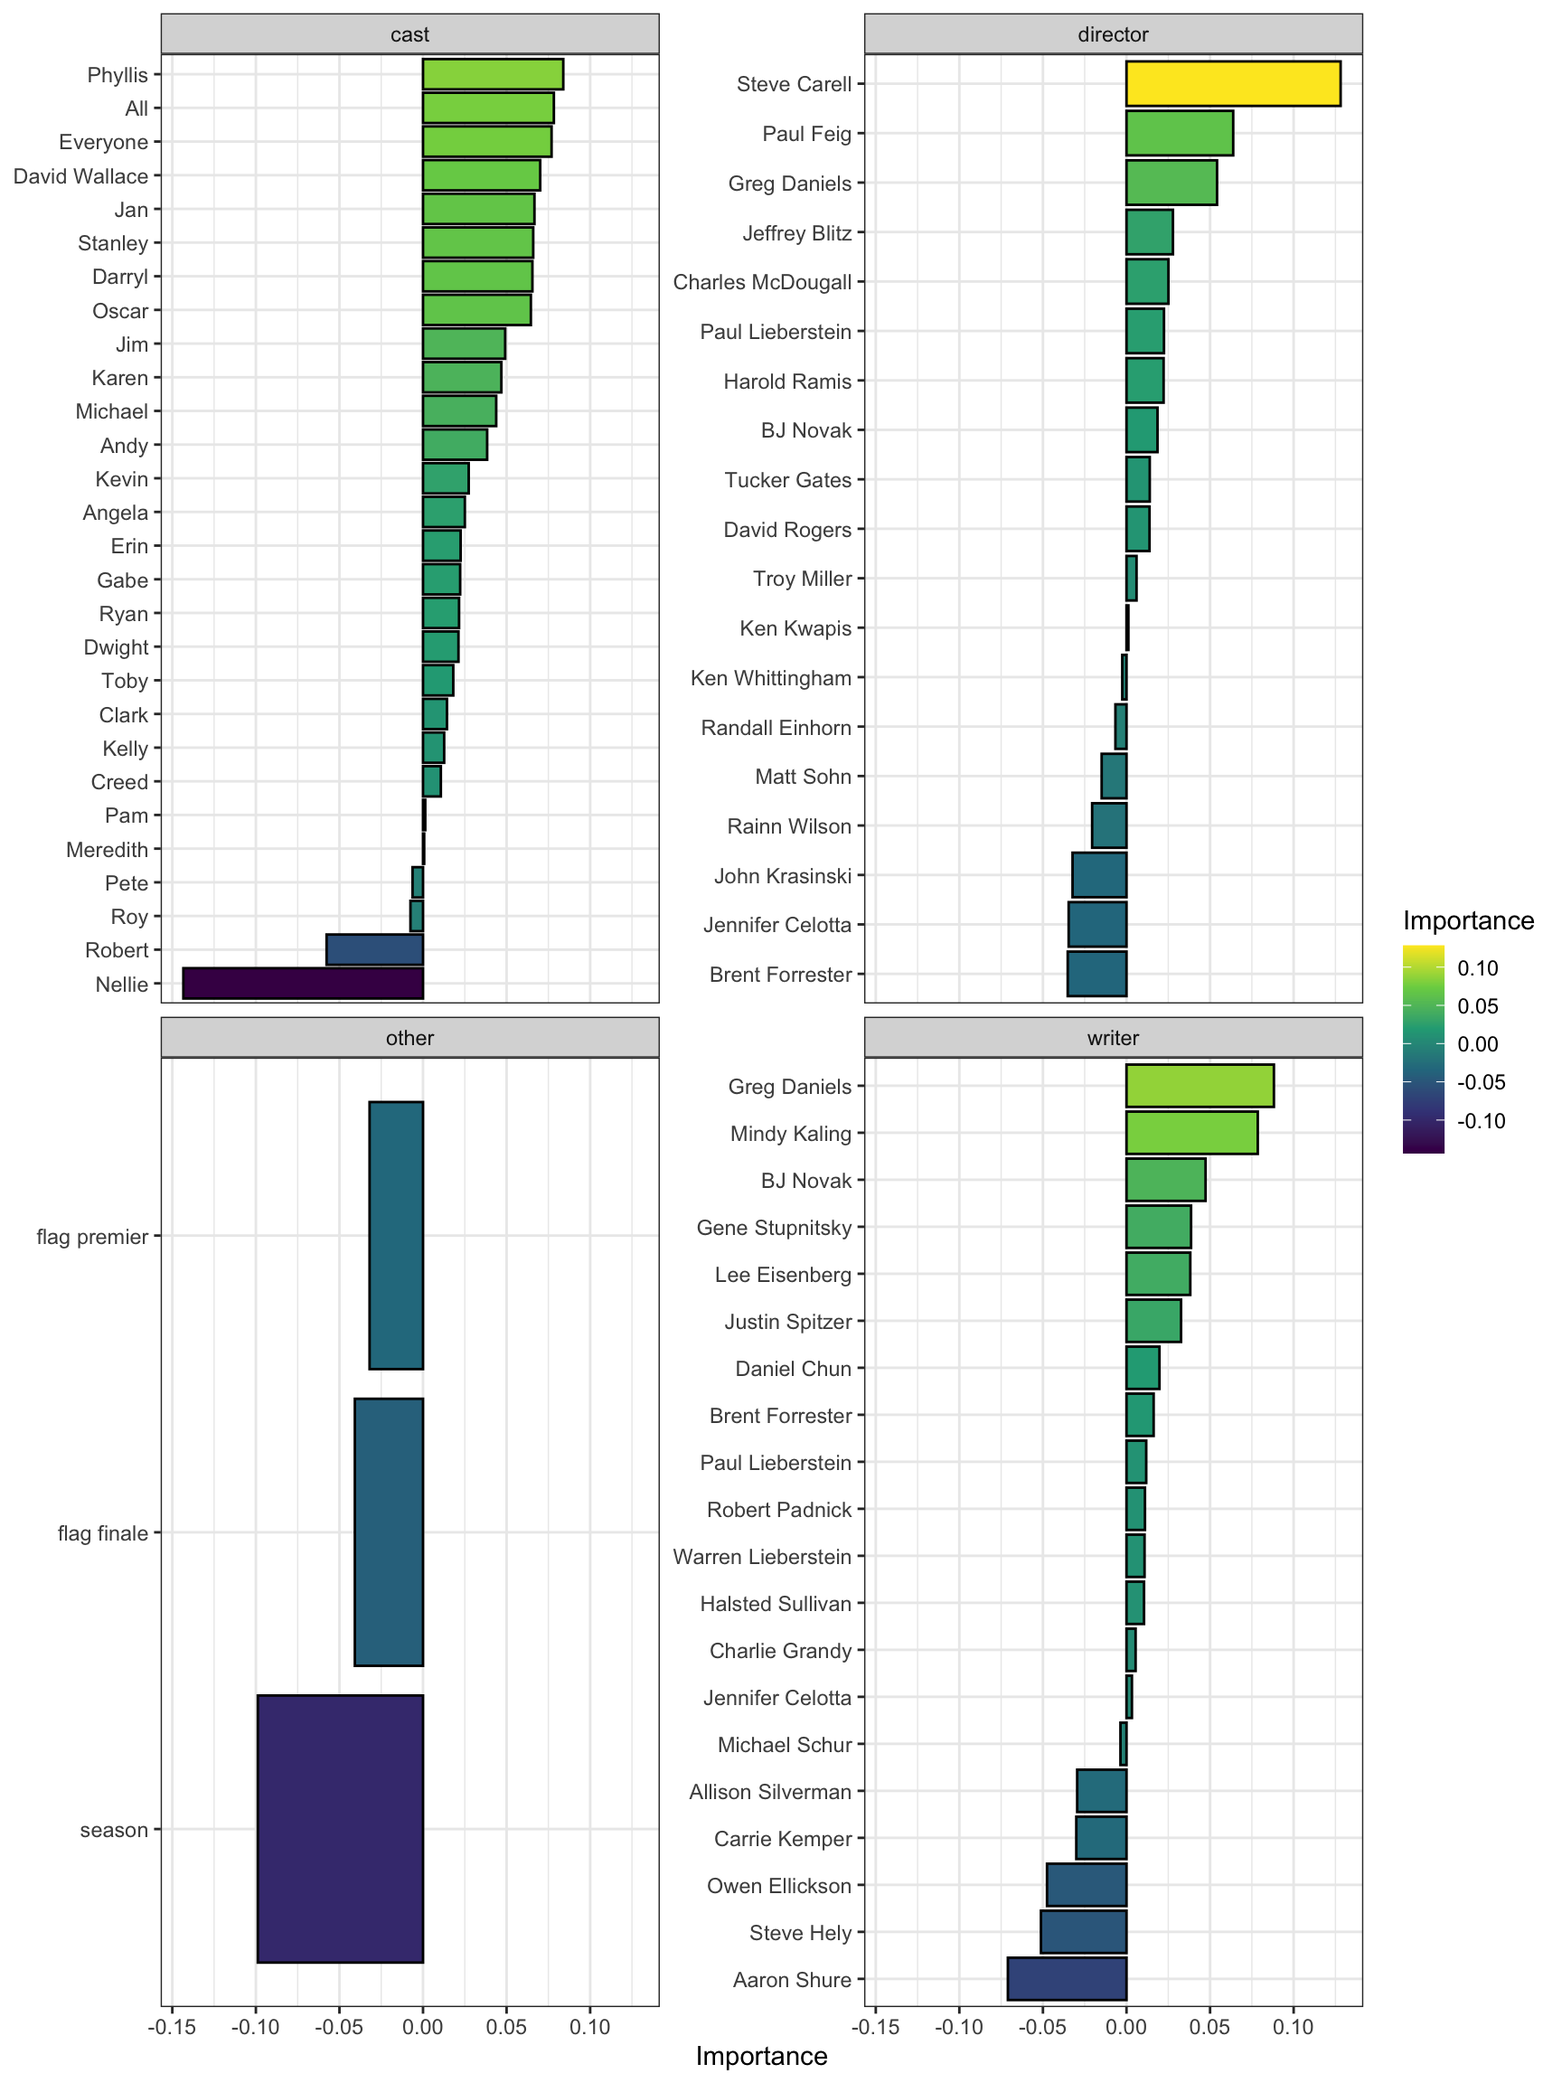
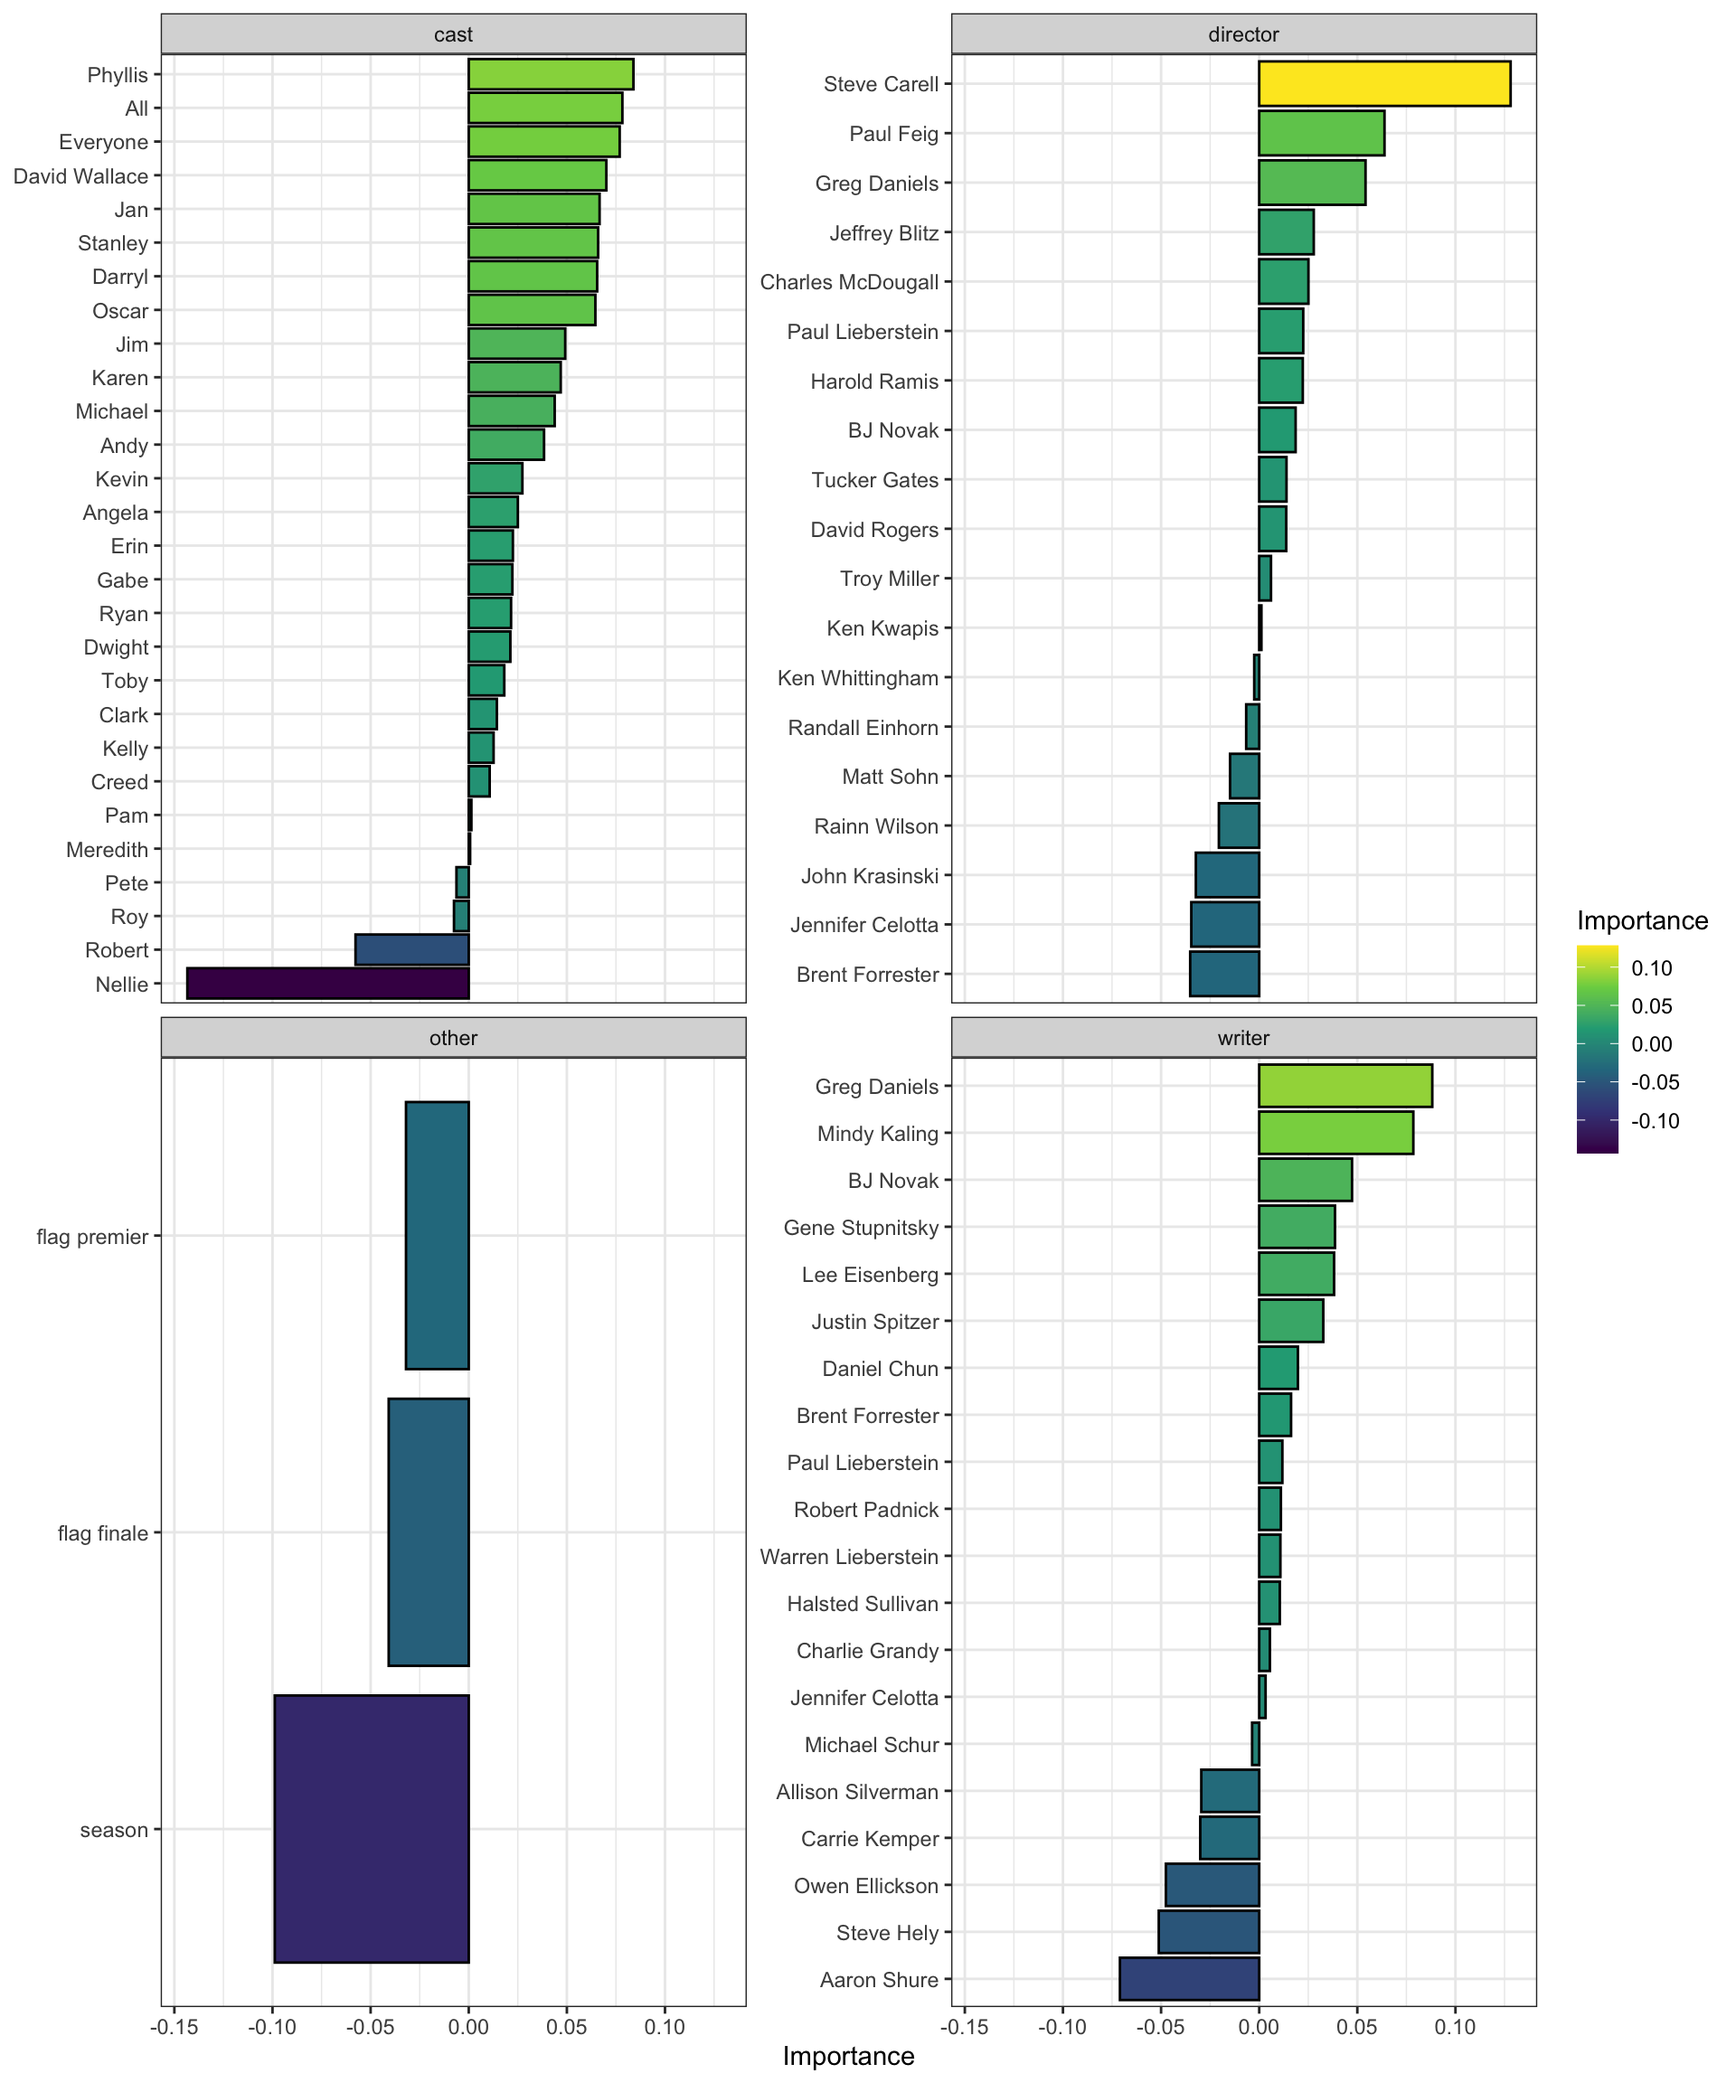
served site

diff --git a/content/post/2020-06-19-the-office.html b/content/post/2020-06-19-the-office.html
@@ -401,7 +401,7 @@ df_vi %&gt;%
   scale_fill_viridis_c() +
   scale_y_reordered() +
   labs(y = NULL)</code></pre>
-<p><img src="/post/2020-06-19-the-office_files/figure-html/unnamed-chunk-21-1.png" width="864" /></p>
+<p><img src="/post/2020-06-19-the-office_files/figure-html/unnamed-chunk-21-1.png" width="960" /></p>
 <p>Phyllis is the cast MVP, based on this model. The high values for “Everyone” and “All” show that scenes where the entire office is involved are highly associated with increased ratings. Carell’s directorship is significantly more important than the other directors. The model has a dim view of Nellie and the later seasons of the show in general. The negative importance for Roy clearly means that the model is internally valid and cannot be improved upon.</p>
 <p>Splitting the model inputs by role means I can compare how impactful a person was across roles. For example, the showrunner Greg Daniels was relatively more important as as writer than a director.</p>
 <pre class="r"><code>df_vi %&gt;%  
